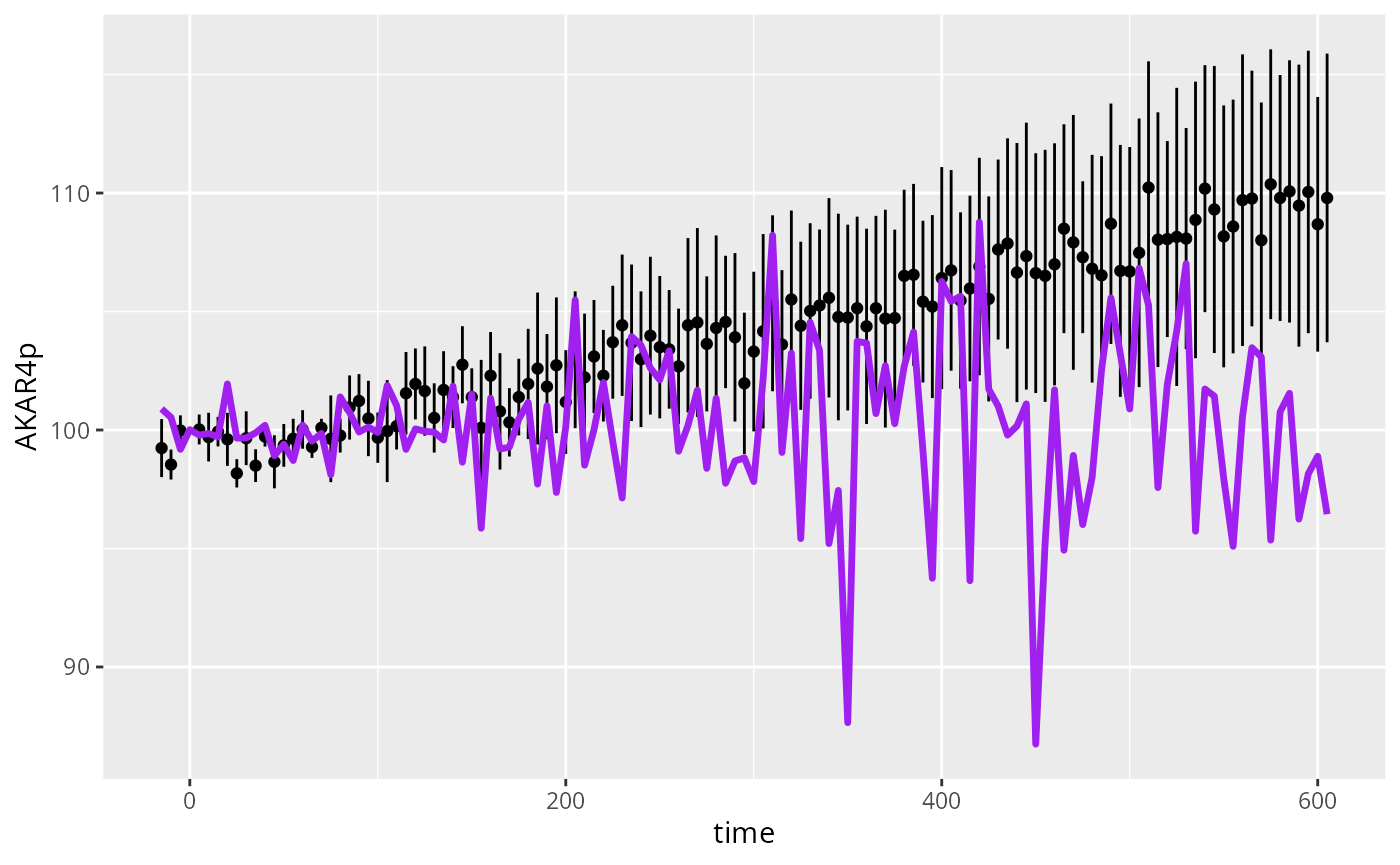
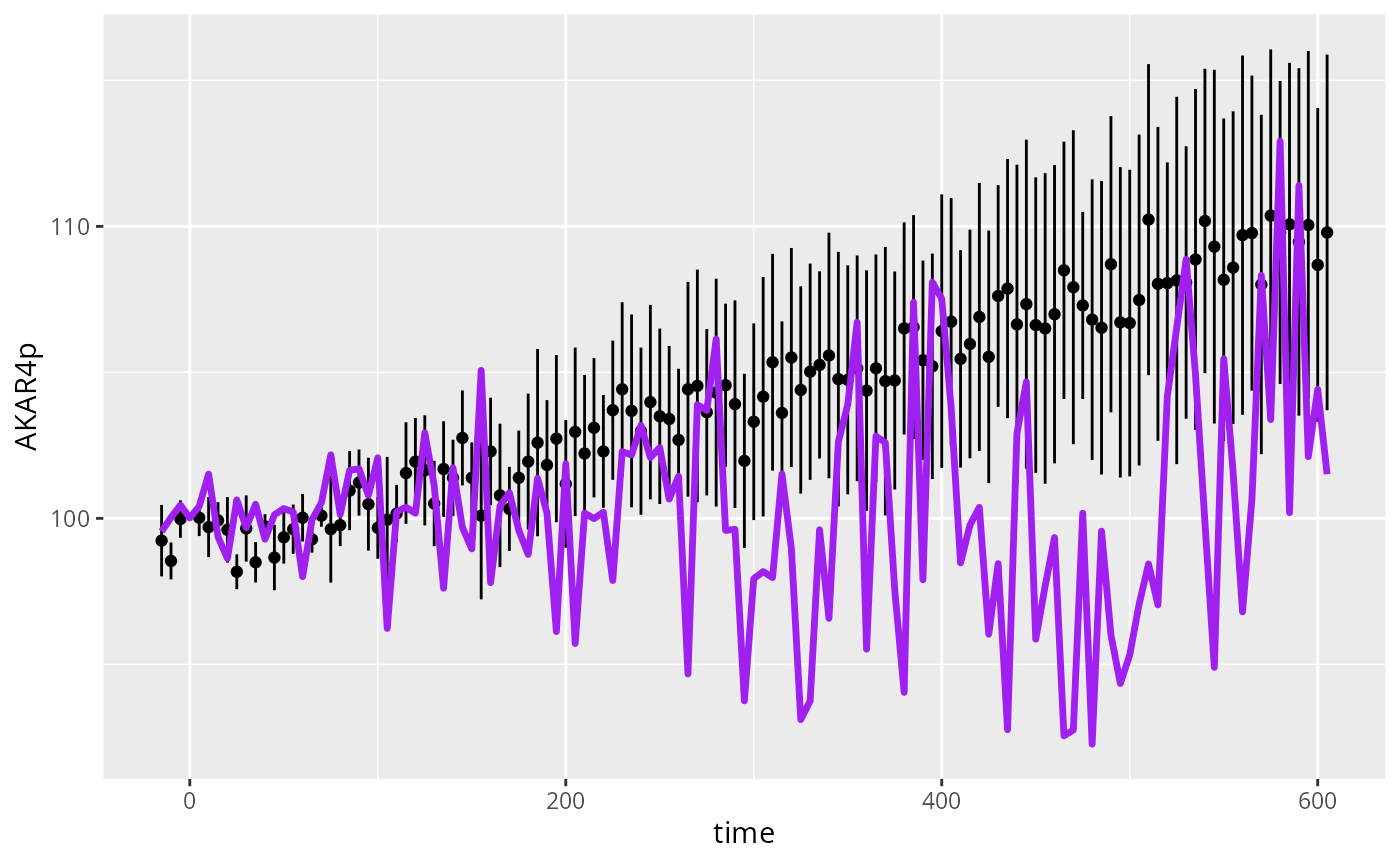
fixed the AKAP79 simulation article

diff --git a/docs/articles/simAKAP79.html b/docs/articles/simAKAP79.html
@@ -42,6 +42,7 @@
   <div class="dropdown-menu" aria-labelledby="dropdown-installation">
     <a class="dropdown-item" href="../articles/installation.html">Short Instructions</a>
     <a class="dropdown-item" href="../articles/installExplanations.html">Explanation for System Prerequisites</a>
+    <a class="dropdown-item" href="../articles/path.html">The PATH variable</a>
   </div>
 </li>
 <li class="nav-item dropdown">
@@ -123,16 +124,41 @@ the <a href="user_model.html">user model</a> article.</p>
 <div class="sourceCode" id="cb2"><pre class="downlit sourceCode r">
 <code class="sourceCode R"><span><span class="va">modelFiles</span> <span class="op">&lt;-</span> <span class="fu"><a href="../reference/uqsa_example.html">uqsa_example</a></span><span class="op">(</span><span class="st">"AKAP79"</span>,full.names<span class="op">=</span><span class="cn">TRUE</span><span class="op">)</span></span>
 <span><span class="va">SBtab</span> <span class="op">&lt;-</span> <span class="fu">SBtabVFGEN</span><span class="fu">::</span><span class="fu"><a href="https://rdrr.io/pkg/SBtabVFGEN/man/sbtab_from_tsv.html" class="external-link">sbtab_from_tsv</a></span><span class="op">(</span><span class="va">modelFiles</span><span class="op">)</span></span>
-<span><span class="co">#&gt; [tsv] file[1] «/tmp/Rtmp4Mqhp2/temp_libpath32ffe8c23f5b/uqsa/extdata/AKAP79/AKAP79_Compound.tsv» belongs to Document «AKAP79»</span></span>
+<span><span class="co">#&gt; [tsv] file[1] «/home/andreikr/.local/R/library/uqsa/extdata/AKAP79/AKAP79_Compound.tsv» belongs to Document «AKAP79»</span></span>
 <span><span class="co">#&gt;  I'll take this as the Model Name.</span></span>
+<span><span class="co">#&gt; /home/andreikr/.local/R/library/uqsa/extdata/AKAP79/AKAP79_Compound.tsv </span></span>
+<span><span class="co">#&gt; /home/andreikr/.local/R/library/uqsa/extdata/AKAP79/AKAP79_Experiments.tsv </span></span>
+<span><span class="co">#&gt; /home/andreikr/.local/R/library/uqsa/extdata/AKAP79/AKAP79_Expression.tsv </span></span>
+<span><span class="co">#&gt; /home/andreikr/.local/R/library/uqsa/extdata/AKAP79/AKAP79_Input.tsv </span></span>
+<span><span class="co">#&gt; /home/andreikr/.local/R/library/uqsa/extdata/AKAP79/AKAP79_Output.tsv </span></span>
+<span><span class="co">#&gt; /home/andreikr/.local/R/library/uqsa/extdata/AKAP79/AKAP79_Parameter.tsv </span></span>
+<span><span class="co">#&gt; /home/andreikr/.local/R/library/uqsa/extdata/AKAP79/AKAP79_Reaction.tsv </span></span>
+<span><span class="co">#&gt; /home/andreikr/.local/R/library/uqsa/extdata/AKAP79/X0uM_cAMPCaN_AKAP79_0_nM_cAMP.tsv </span></span>
+<span><span class="co">#&gt; /home/andreikr/.local/R/library/uqsa/extdata/AKAP79/X0uM_cAMPCaN_only_0_nM_cAMP.tsv </span></span>
+<span><span class="co">#&gt; /home/andreikr/.local/R/library/uqsa/extdata/AKAP79/X0uM_cAMPno_CaN_0_nM_cAMP.tsv </span></span>
+<span><span class="co">#&gt; /home/andreikr/.local/R/library/uqsa/extdata/AKAP79/X1000nM_cAMPCaN_AKAP79_1_uM_cAMP.tsv </span></span>
+<span><span class="co">#&gt; /home/andreikr/.local/R/library/uqsa/extdata/AKAP79/X1000nM_cAMPCaN_only_1_uM_cAMP.tsv </span></span>
+<span><span class="co">#&gt; /home/andreikr/.local/R/library/uqsa/extdata/AKAP79/X1000nM_cAMPno_CaN_1_uM_cAMP.tsv </span></span>
+<span><span class="co">#&gt; /home/andreikr/.local/R/library/uqsa/extdata/AKAP79/X100nM_cAMPCaN_AKAP79_100_nM_cAMP.tsv </span></span>
+<span><span class="co">#&gt; /home/andreikr/.local/R/library/uqsa/extdata/AKAP79/X100nM_cAMPCaN_only_100_nM_cAMP.tsv </span></span>
+<span><span class="co">#&gt; /home/andreikr/.local/R/library/uqsa/extdata/AKAP79/X100nM_cAMPno_CaN_100_nM_cAMP.tsv </span></span>
+<span><span class="co">#&gt; /home/andreikr/.local/R/library/uqsa/extdata/AKAP79/X2000nM_cAMPCaN_AKAP79_2_uM_cAMP.tsv </span></span>
+<span><span class="co">#&gt; /home/andreikr/.local/R/library/uqsa/extdata/AKAP79/X2000nM_cAMPCaN_only_2_uM_cAMP.tsv </span></span>
+<span><span class="co">#&gt; /home/andreikr/.local/R/library/uqsa/extdata/AKAP79/X2000nM_cAMPno_CaN_2_uM_cAMP.tsv </span></span>
+<span><span class="co">#&gt; /home/andreikr/.local/R/library/uqsa/extdata/AKAP79/X200nM_cAMPCaN_AKAP79_200_nM_cAMP.tsv </span></span>
+<span><span class="co">#&gt; /home/andreikr/.local/R/library/uqsa/extdata/AKAP79/X200nM_cAMPCaN_only_200_nM_cAMP.tsv </span></span>
+<span><span class="co">#&gt; /home/andreikr/.local/R/library/uqsa/extdata/AKAP79/X200nM_cAMPno_CaN_200_nM_cAMP.tsv </span></span>
+<span><span class="co">#&gt; /home/andreikr/.local/R/library/uqsa/extdata/AKAP79/X500nM_cAMPCaN_AKAP79_500_nM_cAMP.tsv </span></span>
+<span><span class="co">#&gt; /home/andreikr/.local/R/library/uqsa/extdata/AKAP79/X500nM_cAMPCaN_only_500_nM_cAMP.tsv </span></span>
+<span><span class="co">#&gt; /home/andreikr/.local/R/library/uqsa/extdata/AKAP79/X500nM_cAMPno_CaN_500_nM_cAMP.tsv</span></span>
 <span><span class="va">modelName</span> <span class="op">&lt;-</span> <span class="fu"><a href="../reference/checkModel.html">checkModel</a></span><span class="op">(</span><span class="st">"AKAP79"</span>,<span class="fu"><a href="../reference/uqsa_example.html">uqsa_example</a></span><span class="op">(</span><span class="st">"AKAP79"</span>,pat<span class="op">=</span><span class="st">"_gvf[.]c$"</span><span class="op">)</span><span class="op">)</span></span>
 <span><span class="co">#&gt; building a shared library from c source, and using GSL odeiv2 as backend (pkg-config is used here).</span></span>
-<span><span class="co">#&gt; cc -shared -fPIC `pkg-config --cflags gsl` -o './AKAP79.so' '/tmp/Rtmp4Mqhp2/temp_libpath32ffe8c23f5b/uqsa/extdata/AKAP79/AKAP79_gvf.c' `pkg-config --libs gsl`</span></span>
+<span><span class="co">#&gt; cc -shared -fPIC `pkg-config --cflags gsl` -o './AKAP79.so' '/home/andreikr/.local/R/library/uqsa/extdata/AKAP79/AKAP79_gvf.c' `pkg-config --libs gsl`</span></span>
 <span><span class="fu"><a href="https://rdrr.io/r/base/comment.html" class="external-link">comment</a></span><span class="op">(</span><span class="va">modelName</span><span class="op">)</span></span>
 <span><span class="co">#&gt; [1] "./AKAP79.so"</span></span>
 <span></span>
 <span><span class="co"># model related functions, in R, e.g. AKAP79_default() parameters</span></span>
-<span><span class="kw"><a href="https://rdrr.io/r/base/source.html" class="external-link">source</a></span><span class="op">(</span><span class="fu"><a href="../reference/uqsa_example.html">uqsa_example</a></span><span class="op">(</span><span class="st">"AKAP79"</span>,pat<span class="op">=</span><span class="st">'^AKAP79[.]R$'</span>,full.names<span class="op">=</span><span class="cn">TRUE</span><span class="op">)</span><span class="op">)</span></span>
+<span><span class="kw"><a href="https://rdrr.io/r/base/source.html" class="external-link">source</a></span><span class="op">(</span><span class="fu"><a href="../reference/uqsa_example.html">uqsa_example</a></span><span class="op">(</span><span class="st">"AKAP79"</span>,pat<span class="op">=</span><span class="st">'^AKAP79[.]R$'</span><span class="op">)</span><span class="op">)</span></span>
 <span><span class="fu"><a href="https://rdrr.io/r/base/print.html" class="external-link">print</a></span><span class="op">(</span><span class="fu">AKAP79_default</span><span class="op">(</span><span class="op">)</span><span class="op">)</span></span>
 <span><span class="co">#&gt;            kf_Rii_C__RiiP_C kf_RiiP_CxcAMP__RiiP_C_cAMP </span></span>
 <span><span class="co">#&gt;                    33.00000                     0.49600 </span></span>
@@ -168,26 +194,44 @@ the <a href="user_model.html">user model</a> article.</p>
 <span><span class="co">#&gt;                     0.63000                     0.00000 </span></span>
 <span><span class="co">#&gt;          Rii_ConservedConst </span></span>
 <span><span class="co">#&gt;                     6.30000</span></span></code></pre></div>
+<p>Conservation laws (determined by <code>sbtab_to_vfgen</code> and
+saved as RDS file):</p>
+<div class="sourceCode" id="cb3"><pre class="downlit sourceCode r">
+<code class="sourceCode R"><span><span class="va">clf</span> <span class="op">&lt;-</span> <span class="fu"><a href="../reference/uqsa_example.html">uqsa_example</a></span><span class="op">(</span><span class="st">"AKAP79"</span>,pat<span class="op">=</span><span class="st">'Laws[.]RDS$'</span><span class="op">)</span></span>
+<span><span class="va">cl</span> <span class="op">&lt;-</span> <span class="fu"><a href="https://rdrr.io/r/base/readRDS.html" class="external-link">readRDS</a></span><span class="op">(</span><span class="va">clf</span><span class="op">)</span></span></code></pre></div>
+<p>With conservation laws, some species are calculated algebraically.
+Their initial values are turned into input parameters (using the found
+law):</p>
+<p>With this hypothetical relationship (<span class="math inline">\(c\)</span> is a constant):</p>
+<p><span class="math display">\[ A+B = c\,, \]</span></p>
+<p>we can determine that</p>
+<p><span class="math display">\[ c = A_0 + B_0\,. \]</span></p>
+<p>And thus we can replac either of the two species:</p>
+<p><span class="math display">\[ A(t) = A_0 + B_0 - B(t) \]</span></p>
+<p>And <span class="math inline">\(A_0+B_0\)</span> are turned into an
+input called <code>A_ConservedConst</code> (the <span class="math inline">\(c\)</span> above) with the value determined from
+the stated initial condition.</p>
 </div>
 <div class="section level2">
 <h2 id="load-experiments-data">Load Experiments (data)<a class="anchor" aria-label="anchor" href="#load-experiments-data"></a>
 </h2>
 <p>This also includes instructions for the simulator.</p>
-<div class="sourceCode" id="cb3"><pre class="downlit sourceCode r">
-<code class="sourceCode R"><span><span class="va">experiments</span> <span class="op">&lt;-</span> <span class="fu"><a href="https://rdrr.io/pkg/SBtabVFGEN/man/sbtab.data.html" class="external-link">sbtab.data</a></span><span class="op">(</span><span class="va">SBtab</span><span class="op">)</span></span>
+<div class="sourceCode" id="cb4"><pre class="downlit sourceCode r">
+<code class="sourceCode R"><span><span class="va">experiments</span> <span class="op">&lt;-</span> <span class="fu"><a href="https://rdrr.io/pkg/SBtabVFGEN/man/sbtab.data.html" class="external-link">sbtab.data</a></span><span class="op">(</span><span class="va">SBtab</span>,<span class="va">cl</span><span class="op">)</span> <span class="co"># with conservation laws</span></span>
 <span><span class="co"># for example, these are the input</span></span>
 <span><span class="co"># and initial state of experiment 1:</span></span>
 <span><span class="fu"><a href="https://rdrr.io/r/base/print.html" class="external-link">print</a></span><span class="op">(</span><span class="va">experiments</span><span class="op">[[</span><span class="fl">1</span><span class="op">]</span><span class="op">]</span><span class="op">$</span><span class="va">input</span><span class="op">)</span></span>
-<span><span class="co">#&gt; [1] 1</span></span>
+<span><span class="co">#&gt;               b_AKAP AKAR4_ConservedConst   CaN_ConservedConst </span></span>
+<span><span class="co">#&gt;                 1.00                 0.20                 1.50 </span></span>
+<span><span class="co">#&gt; Rii_C_ConservedConst  cAMP_ConservedConst   Rii_ConservedConst </span></span>
+<span><span class="co">#&gt;                 0.63                 0.00                 6.30</span></span>
 <span><span class="fu"><a href="https://rdrr.io/r/base/print.html" class="external-link">print</a></span><span class="op">(</span><span class="va">experiments</span><span class="op">[[</span><span class="fl">1</span><span class="op">]</span><span class="op">]</span><span class="op">$</span><span class="va">initialState</span><span class="op">)</span></span>
-<span><span class="co">#&gt;           Rii          cAMP          RiiP         Rii_C     RiiP_cAMP </span></span>
-<span><span class="co">#&gt;          6.30          0.00          0.00          0.63          0.00 </span></span>
-<span><span class="co">#&gt;        RiiP_C   RiiP_C_cAMP             C      Rii_cAMP    Rii_C_cAMP </span></span>
-<span><span class="co">#&gt;          0.00          0.00          0.00          0.00          0.00 </span></span>
-<span><span class="co">#&gt;           CaN      RiiP_CaN RiiP_cAMP_CaN         AKAR4       AKAR4_C </span></span>
-<span><span class="co">#&gt;          1.50          0.00          0.00          0.20          0.00 </span></span>
+<span><span class="co">#&gt;          RiiP     RiiP_cAMP        RiiP_C   RiiP_C_cAMP             C </span></span>
+<span><span class="co">#&gt;             0             0             0             0             0 </span></span>
+<span><span class="co">#&gt;      Rii_cAMP    Rii_C_cAMP      RiiP_CaN RiiP_cAMP_CaN       AKAR4_C </span></span>
+<span><span class="co">#&gt;             0             0             0             0             0 </span></span>
 <span><span class="co">#&gt;        AKAR4p </span></span>
-<span><span class="co">#&gt;          0.00</span></span>
+<span><span class="co">#&gt;             0</span></span>
 <span><span class="co"># pick prameters for simulation</span></span>
 <span><span class="va">nInput</span> <span class="op">&lt;-</span> <span class="fu"><a href="https://rdrr.io/r/base/length.html" class="external-link">length</a></span><span class="op">(</span><span class="va">experiments</span><span class="op">[[</span><span class="fl">1</span><span class="op">]</span><span class="op">]</span><span class="op">$</span><span class="va">input</span><span class="op">)</span></span>
 <span><span class="va">p</span> <span class="op">&lt;-</span> <span class="fu"><a href="https://rdrr.io/r/utils/head.html" class="external-link">head</a></span><span class="op">(</span><span class="fu">AKAP79_default</span><span class="op">(</span><span class="op">)</span>,<span class="op">-</span><span class="va">nInput</span><span class="op">)</span></span>
@@ -218,12 +262,8 @@ the <a href="user_model.html">user model</a> article.</p>
 <span><span class="co">#&gt;                     0.10600                    10.20000 </span></span>
 <span><span class="co">#&gt;                       kmOFF                        kmON </span></span>
 <span><span class="co">#&gt;                   100.00000                     1.00000 </span></span>
-<span><span class="co">#&gt;                        KD_T                      b_AKAP </span></span>
-<span><span class="co">#&gt;                     0.70000                     0.00000 </span></span>
-<span><span class="co">#&gt;        AKAR4_ConservedConst          CaN_ConservedConst </span></span>
-<span><span class="co">#&gt;                     0.20000                     1.50000 </span></span>
-<span><span class="co">#&gt;        Rii_C_ConservedConst         cAMP_ConservedConst </span></span>
-<span><span class="co">#&gt;                     0.63000                     0.00000</span></span></code></pre></div>
+<span><span class="co">#&gt;                        KD_T </span></span>
+<span><span class="co">#&gt;                     0.70000</span></span></code></pre></div>
 </div>
 <div class="section level2">
 <h2 id="simulate">Simulate<a class="anchor" aria-label="anchor" href="#simulate"></a>
@@ -231,7 +271,7 @@ the <a href="user_model.html">user model</a> article.</p>
 <p>This will make a function <code>s</code>, which will always simulate
 the scenarios described in the <code>experiments</code> list, but for
 user supplied parameters.</p>
-<div class="sourceCode" id="cb4"><pre class="downlit sourceCode r">
+<div class="sourceCode" id="cb5"><pre class="downlit sourceCode r">
 <code class="sourceCode R"><span><span class="va">s</span> <span class="op">&lt;-</span> <span class="fu"><a href="../reference/simulator.c.html">simulator.c</a></span><span class="op">(</span><span class="va">experiments</span>,<span class="va">modelName</span>,noise<span class="op">=</span><span class="cn">TRUE</span><span class="op">)</span></span>
 <span><span class="co">#&gt; Loading required package: rgsl</span></span>
 <span><span class="va">y</span> <span class="op">&lt;-</span> <span class="fu">s</span><span class="op">(</span><span class="va">p</span><span class="op">)</span></span></code></pre></div>
@@ -239,7 +279,7 @@ user supplied parameters.</p>
 <div class="section level2">
 <h2 id="plot">Plot<a class="anchor" aria-label="anchor" href="#plot"></a>
 </h2>
-<div class="sourceCode" id="cb5"><pre class="downlit sourceCode r">
+<div class="sourceCode" id="cb6"><pre class="downlit sourceCode r">
 <code class="sourceCode R"><span><span class="va">E</span> <span class="op">&lt;-</span> <span class="fl">10</span> <span class="co"># which experiment to plot</span></span>
 <span><span class="va">out</span> <span class="op">&lt;-</span> <span class="va">experiments</span><span class="op">[[</span><span class="va">E</span><span class="op">]</span><span class="op">]</span><span class="op">$</span><span class="va">outputValues</span><span class="op">$</span><span class="va">AKAR4pOUT</span></span>
 <span><span class="va">err</span> <span class="op">&lt;-</span> <span class="va">experiments</span><span class="op">[[</span><span class="va">E</span><span class="op">]</span><span class="op">]</span><span class="op">$</span><span class="va">errorValues</span><span class="op">$</span><span class="va">AKAR4pOUT</span></span>
@@ -264,7 +304,7 @@ user supplied parameters.</p>
 <div class="section level2">
 <h2 id="gg-plot">gg-Plot<a class="anchor" aria-label="anchor" href="#gg-plot"></a>
 </h2>
-<div class="sourceCode" id="cb6"><pre class="downlit sourceCode r">
+<div class="sourceCode" id="cb7"><pre class="downlit sourceCode r">
 <code class="sourceCode R"><span><span class="kw"><a href="https://rdrr.io/r/base/library.html" class="external-link">require</a></span><span class="op">(</span><span class="va"><a href="https://ggplot2.tidyverse.org" class="external-link">ggplot2</a></span><span class="op">)</span></span>
 <span><span class="co">#&gt; Loading required package: ggplot2</span></span>
 <span></span>
